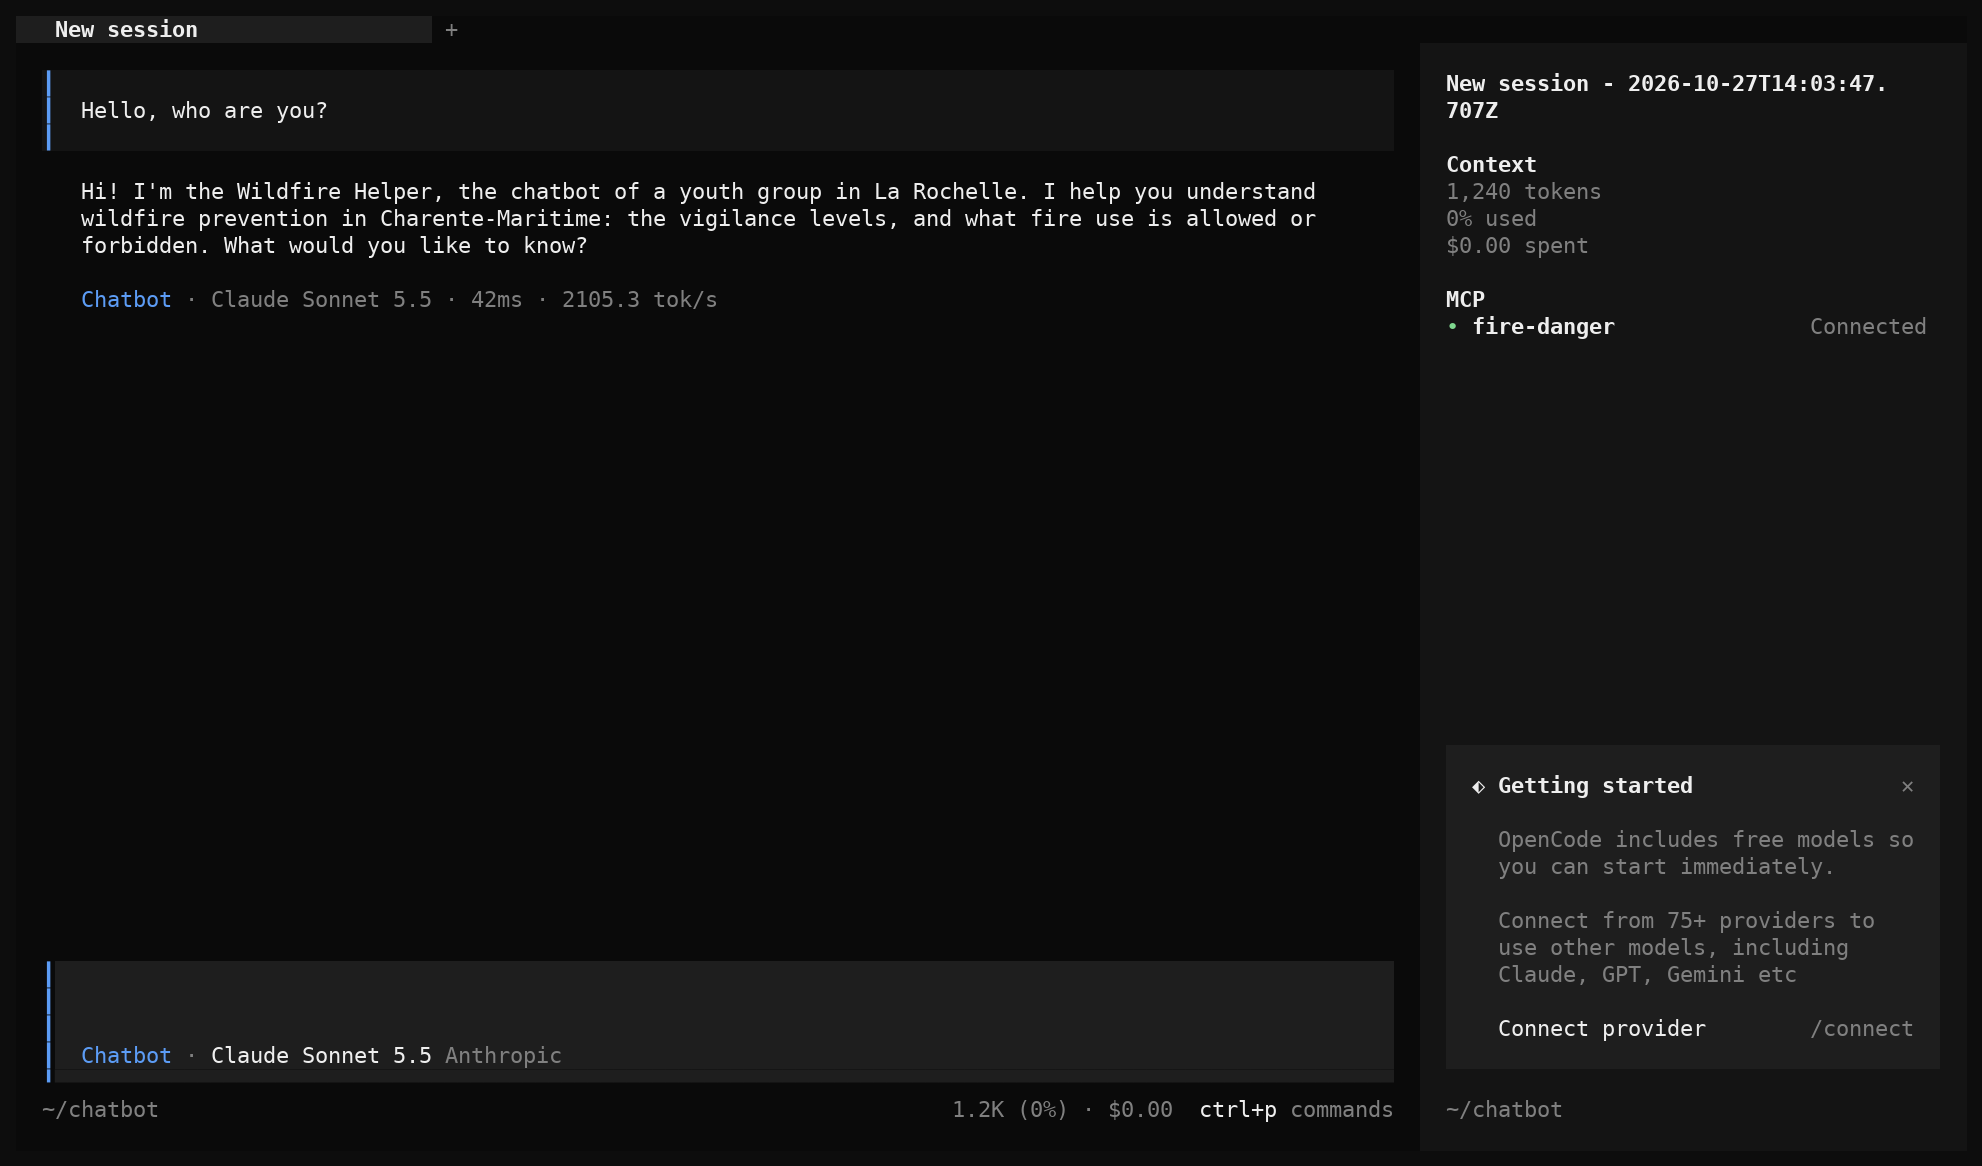
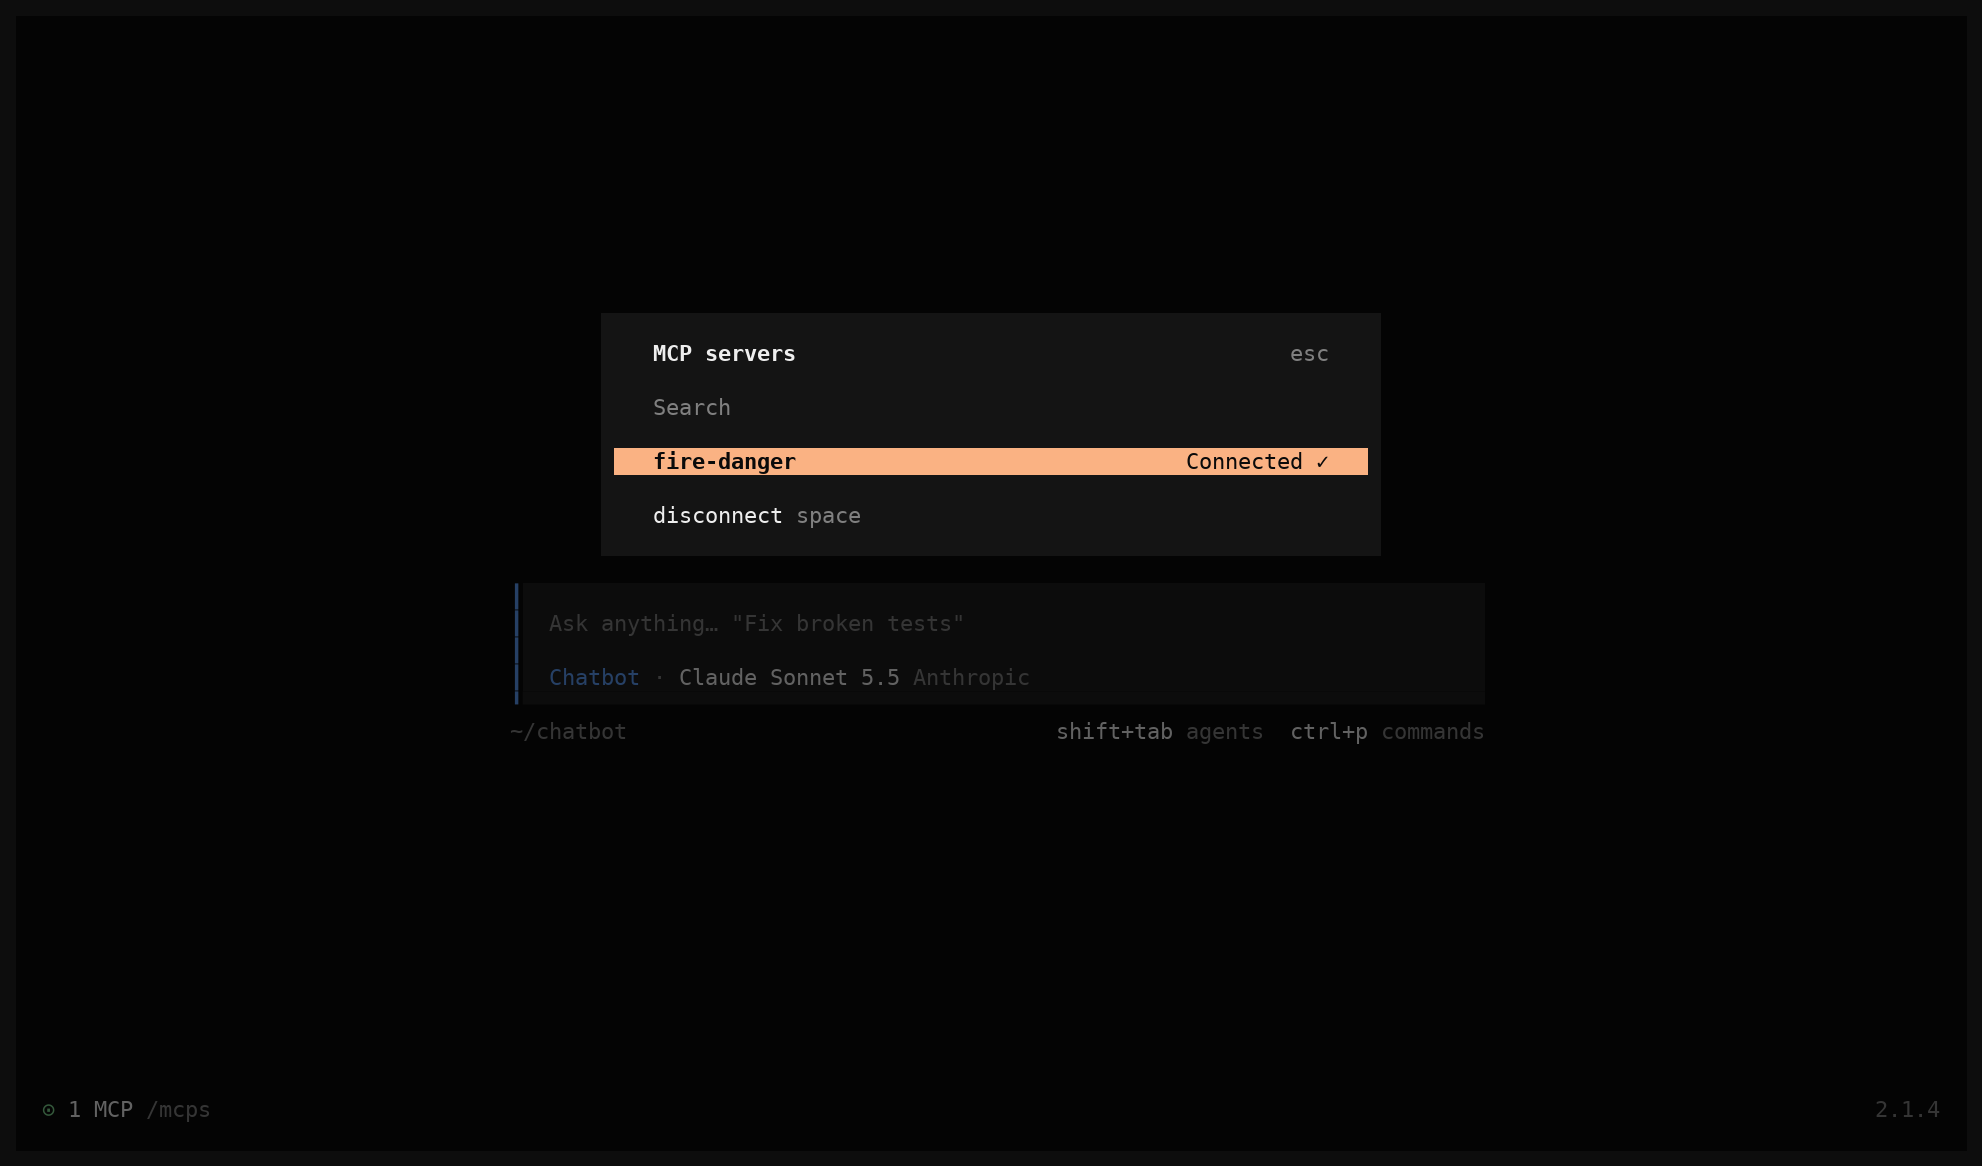
Guides Open WebUI et OpenCode : captures reprises d'après l'audit du 2026-10-30 (15 points) ; Open WebUI : terminal-start et terminal-your-turn refaites par guide-screenshots/terminal/ (pty + pyte, mot de passe masqué), liste Workspace → Models et mémoire (shots12, shots13, sans appel au modèle), Po

diff --git a/README.md b/README.md
@@ -280,6 +280,12 @@ you. On <https://platform.claude.com>:
 4. Create a key: **Keys & access** → **API keys** → **Create key**. Give it a **Name**, an
    **Expires** date, and choose your workspace in **Scope**. Click **Create key**.
 
+![The form "Create API key" of the Claude Console: the boxes Name, Expires and Scope (Expires and Scope framed in red), the box Linked account (here a service account), and the button Create key (the key itself is not shown)](images/console-key.png)
+
+The form also has a box **Linked account**, which says who the key acts for: for a key of your own,
+choose yourself. An organisation can choose a *service account* instead, as in the picture: the key
+then keeps working if you leave the organisation.
+
 The key starts with `sk-ant-`. It is shown **only once**: copy it into your password manager right
 away. You need your own workspace, because the workspace **Default** cannot have a spending limit.
 In OpenCode, the provider is **Anthropic** and the model of the workshops is **Claude Sonnet 5.5**.
@@ -459,8 +465,12 @@ does it.
 You always start the chatbot with the command `chatbot`, never with `opencode` alone: `chatbot`
 first checks the folder of the chatbot, then starts OpenCode in it.
 
-1. Make the terminal bigger first: click the **Maximize Panel Size** arrow at the top right of the
-   terminal. OpenCode needs room: in a small terminal, its side panel covers the conversation.
+1. Make the terminal bigger first: click the **Maximize Panel** button (its icon is four corners)
+   at the top right of the terminal. OpenCode needs room: in a small terminal, its side panel covers
+   the conversation.
+
+   ![The top bar of the terminal: on the right, the button Maximize Panel (four corners) framed in red, just left of the X that hides the terminal](images/vscode-maximize-panel.png)
+
 2. In the terminal, type:
 
    ```bash
@@ -474,15 +484,16 @@ All checks passed. Starting OpenCode in chatbot/ (the current folder).
 Before your first question, type /mcps and wait until it shows "fire-danger Connected".
 ```
 
-Then OpenCode opens in the terminal. At the bottom are the message box and a line that starts with
-**Chatbot**: this is the assistant of this folder. If you see **Build** instead, OpenCode did not
+Then OpenCode opens in the terminal. In the middle, under the OpenCode logo, is the message box.
+Inside it, under the grey example text, a line starts with **Chatbot**: this is the assistant of
+this folder. If you see **Build** instead, OpenCode did not
 load the configuration of the chatbot: quit at once with `Ctrl+C`, and see
 [OpenCode is not the chatbot](#opencode-is-not-the-chatbot).
 
 After **Chatbot**, the line shows a model. Before you connect anything (step 3), it may be a GitHub
-Copilot model chosen by OpenCode, for example **Gemini 4 Argon · GitHub Copilot**. Do not ask
-anything yet: in our test, this one answered "Error: The requested model is not supported."
-Connect your key or subscription first, so that you know who pays and on which terms.
+Copilot model chosen by OpenCode, for example **Gemini 4 Argon**.
+Do not ask anything yet: in our test, this one answered "Error: The requested model is not
+supported." Connect your key or subscription first, so that you know who pays and on which terms.
 
 If the command prints a list of problems and "This chatbot is not safe to start. Fix it, or ask the
 person who sent it.", OpenCode does not start: each line says what is wrong.
@@ -492,7 +503,7 @@ you should not see it.
 The grey example text in the message box, such as "Fix broken tests" or "What is the tech stack of
 this project?", is OpenCode's own, made for programmers: ignore it.
 
-![OpenCode just after it opens in the chatbot folder: the OpenCode logo, the message box, and the bottom line "Chatbot · Claude Sonnet 5.5 · Anthropic"](images/01-welcome.png)
+![OpenCode just after it opens in the chatbot folder: in the middle, the OpenCode logo and, under it, the message box with the grey example text and the line "Chatbot · Claude Sonnet 5.5 Anthropic" (the provider in grey); under the box, ~/chatbot on the left and the hints "shift+tab agents" and "ctrl+p commands" on the right](images/01-welcome.png)
 
 ### Step 3 - Connect your key or subscription
 
@@ -503,11 +514,15 @@ then follow what it asks:
 
 | Your way | Choose | Then |
 |---|---|---|
-| **Anthropic key** | **Anthropic**, then the API key method | paste your key with `Ctrl+Shift+V` (`Cmd+V` on a Mac) and press Enter |
-| **Gemini key** | **Google**, then the API key method | paste your key and press Enter |
-| **OpenRouter key** | **OpenRouter**, then the API key method | paste your key and press Enter |
+| **Anthropic key** | **Anthropic** | OpenCode opens **Connect Anthropic** with an empty box, **API key**: paste your key with `Ctrl+Shift+V` (`Cmd+V` on a Mac) and press Enter |
+| **Gemini key** | **Google** | in **Connect Google**, paste your key in the box **API key** and press Enter |
+| **OpenRouter key** | **OpenRouter** (not in the first lines: type `OpenRouter` in **Search**) | in **Connect OpenRouter**, paste your key in the box **API key** and press Enter |
 | **GitHub Copilot** | **GitHub Copilot** → **Login with GitHub Copilot** → **GitHub.com** | OpenCode gives the page <https://github.com/login/device> (in our test in a Codespace, the link opened) and a code of 8 characters: type the code on that page, and allow the access (copying it out of OpenCode may not reach your browser) |
 | **ChatGPT Plus or Pro** | in a Codespace, not here: quit OpenCode and follow [way 5](#way-5---a-chatgpt-plus-or-pro-subscription) | sign in from the terminal with `opencode auth login openai` |
+
+For a key, the box looks like this before you paste (here for Anthropic):
+
+![The box that opens when you choose Anthropic: "Connect Anthropic", the empty box "API key" in grey, and the hint "submit enter"](images/04b-connect-api-key.png)
 
 Once connected, OpenCode shows the models of this provider: go to step 4. For ChatGPT, start the
 chatbot again with `chatbot` after way 5, then go to step 4.
@@ -525,11 +540,12 @@ can share the folder without sharing your key. You connect once per Codespace.
 
 Choose a model in this list (later, type `/models` and press Enter to open it again: it lists the
 models of all the providers you connected), for example **Claude Sonnet 5.5** (Anthropic or GitHub Copilot), **Gemini 3.8 Flash**
-(Google) or **GPT-6 Sol** (OpenAI). The bottom of the window now shows the chatbot, the model and
-its provider, for example **Chatbot · Claude Sonnet 5.5 · Anthropic**. OpenCode keeps this choice:
-at the next start, the bottom line shows the last model you used. Check it before each session.
+(Google) or **GPT-6 Sol** (OpenAI). The last line of the message box now shows the chatbot, the
+model and, in grey, its provider, for example **Chatbot · Claude Sonnet 5.5 Anthropic**. OpenCode
+keeps this choice: at the next start, this line shows the last model you used. Check it before
+each session.
 
-![The list that `/models` opens, "Select model", with Claude Haiku, Sonnet and Opus highlighted](images/03-model-picker.png)
+![The list that `/models` opens, "Select model", with the Claude models from Claude Haiku 5.5 to Claude Opus 4.5 (latest); only the current choice, Claude Sonnet 5.5, is highlighted, with a dot](images/03-model-picker.png)
 
 In a Codespace, `/models` may list **GitHub Copilot** models even before you connect anything: they
 come from the Codespace's own access to GitHub. In our test, with an account that has a Copilot
@@ -540,12 +556,14 @@ Copilot, connect your account with `/connect` as in step 3.
 ### Step 5 - Wait for the tools, then ask
 
 OpenCode starts the chatbot's tool, the small program of the folder `mcp/`, a few seconds after it
-opens. Type `/mcps` and press Enter: wait until the list shows **fire-danger Connected**, then
-press `Esc`. A question sent before that goes without the tool. Once a conversation has started,
-the side panel on the right shows the same line (in a small terminal, `Ctrl+X` then `B` shows or
-hides the panel).
+opens. Type `/mcps` and press Enter: the list **MCP servers** opens. Wait until the line
+**fire-danger** says **Connected**, then press `Esc`. A question sent before that goes without the
+tool.
 
-![The side panel on the right showing "fire-danger  Connected", after a first greeting](images/02-fire-danger-connected.png)
+![The list that `/mcps` opens, "MCP servers": the line "fire-danger", highlighted, says "Connected ✓"; under it, the hint "disconnect space"](images/02-fire-danger-connected.png)
+
+Once a conversation has started, the side panel on the right shows the same line (in a small
+terminal, `Ctrl+X` then `B` shows or hides the panel).
 
 Then ask:
 
@@ -757,7 +775,7 @@ You can also tell the chatbot what you know, and let it write the document:
    lower down in the window.
 4. Read the document it wrote, and check each sentence against your source.
 
-![OpenCode asking before it writes a document: "Permission required → Edit knowledge/40-...md", the text it would write, and the choices Allow once / Always allow / Reject](images/06-permission-ask.png)
+![OpenCode asking before it writes a document: the message of step 1, the lines Skill "source-note" and Write knowledge/40-our-club-campfire-rule.md, then "Permission required → Edit knowledge/40-our-club-campfire-rule.md", the text it would write, and the choices Allow once / Always allow / Reject](images/06-permission-ask.png)
 
 The skill never invents a source: without one, it writes `Source: TO BE COMPLETED` and tells you.
 Its line in `knowledge/index.md` ends with "Not yet checked by a person.". Once you have checked
@@ -953,9 +971,8 @@ All checks passed: chatbot/ (the current folder) is safe to start.
 Next: chatbot
 ```
 
-When you type `chatbot` (without `check`), the checks pass and it starts OpenCode:
-
-![The terminal after `chatbot`: "All checks passed. Starting OpenCode in chatbot/", "Before your first question, type /mcps and wait until it shows "fire-danger Connected"", and "Starting background server…"](images/08-start-banner.png)
+When you type `chatbot` (without `check`), the checks pass, it prints the two lines shown in
+[part 1, step 2](#step-2---start-the-chatbot), and it starts OpenCode.
 
 **What it checks.** Each check closes a way around the rules that we found while testing OpenCode
 2.1.4:
@@ -990,8 +1007,6 @@ This chatbot is not safe to start. Fix it, or ask the person who sent it.
 Next: fix it, then type: chatbot check
 ```
 
-![The terminal after `chatbot check` on an unsafe folder: three problems listed, then "This chatbot is not safe to start", and OpenCode does not start](images/07-check-refuses.png)
-
 Nothing was started and nothing was changed. Fix each line, then type `chatbot check` again, until
 it says **All checks passed**. If you did not make the folder yourself, do not try to fix it: ask
 the person who sent it. [Troubleshooting](#chatbot-says-this-chatbot-is-not-safe-to-start) lists
@@ -1001,7 +1016,7 @@ the usual messages and what to do.
 > **Never type `opencode` alone to start the chatbot.** Elsewhere than in the folder of a chatbot,
 > for example at the root of this repository, there is no `opencode.jsonc`, and OpenCode works
 > with its own defaults: it does everything without asking. And in a folder that `chatbot` would
-> refuse, OpenCode starts anyway. The bottom of OpenCode's window must say **Chatbot**.
+> refuse, OpenCode starts anyway. The last line of OpenCode's message box must start with **Chatbot**.
 
 ### When OpenCode asks you
 
@@ -1265,10 +1280,10 @@ catalogue: one million tokens for Claude Sonnet 5.5, which is why it stays low.
    ```
 
 **What you should see.** "All checks passed. Starting OpenCode in my-topic/ (the current folder).",
-then OpenCode, with **Chatbot** at the bottom. If `chatbot` refuses, read each line: after a change
-of `opencode.jsonc`, it names the line of a mistake, or the rule that went missing (see
-[Troubleshooting](#chatbot-says-this-chatbot-is-not-safe-to-start)). Then test your chatbot with
-your own questions (part 8).
+then OpenCode, with **Chatbot** in the last line of the message box. If `chatbot` refuses, read
+each line: after a change of `opencode.jsonc`, it names the line of a mistake, or the rule that
+went missing (see [Troubleshooting](#chatbot-says-this-chatbot-is-not-safe-to-start)). Then test
+your chatbot with your own questions (part 8).
 
 New terminals still open in `chatbot/`. From there, type `chatbot ../my-topic` to start your copy,
 or `cd ../my-topic` first.
@@ -1487,9 +1502,9 @@ create a new Codespace from the latest version of the guide.
 
 ### OpenCode is not the chatbot
 
-The bottom of OpenCode's window says **Build**, or the chatbot does not know its documents.
-OpenCode works with its own defaults, which allow everything. Press `Ctrl+C` at once. There are two
-causes:
+The last line of OpenCode's message box starts with **Build**, or the chatbot does not know its
+documents. OpenCode works with its own defaults, which allow everything. Press `Ctrl+C` at once.
+There are two causes:
 
 - **OpenCode was started with `opencode` instead of `chatbot`**, outside the folder of a chatbot.
   Type `chatbot` (or `chatbot ../my-topic` for your copy).
